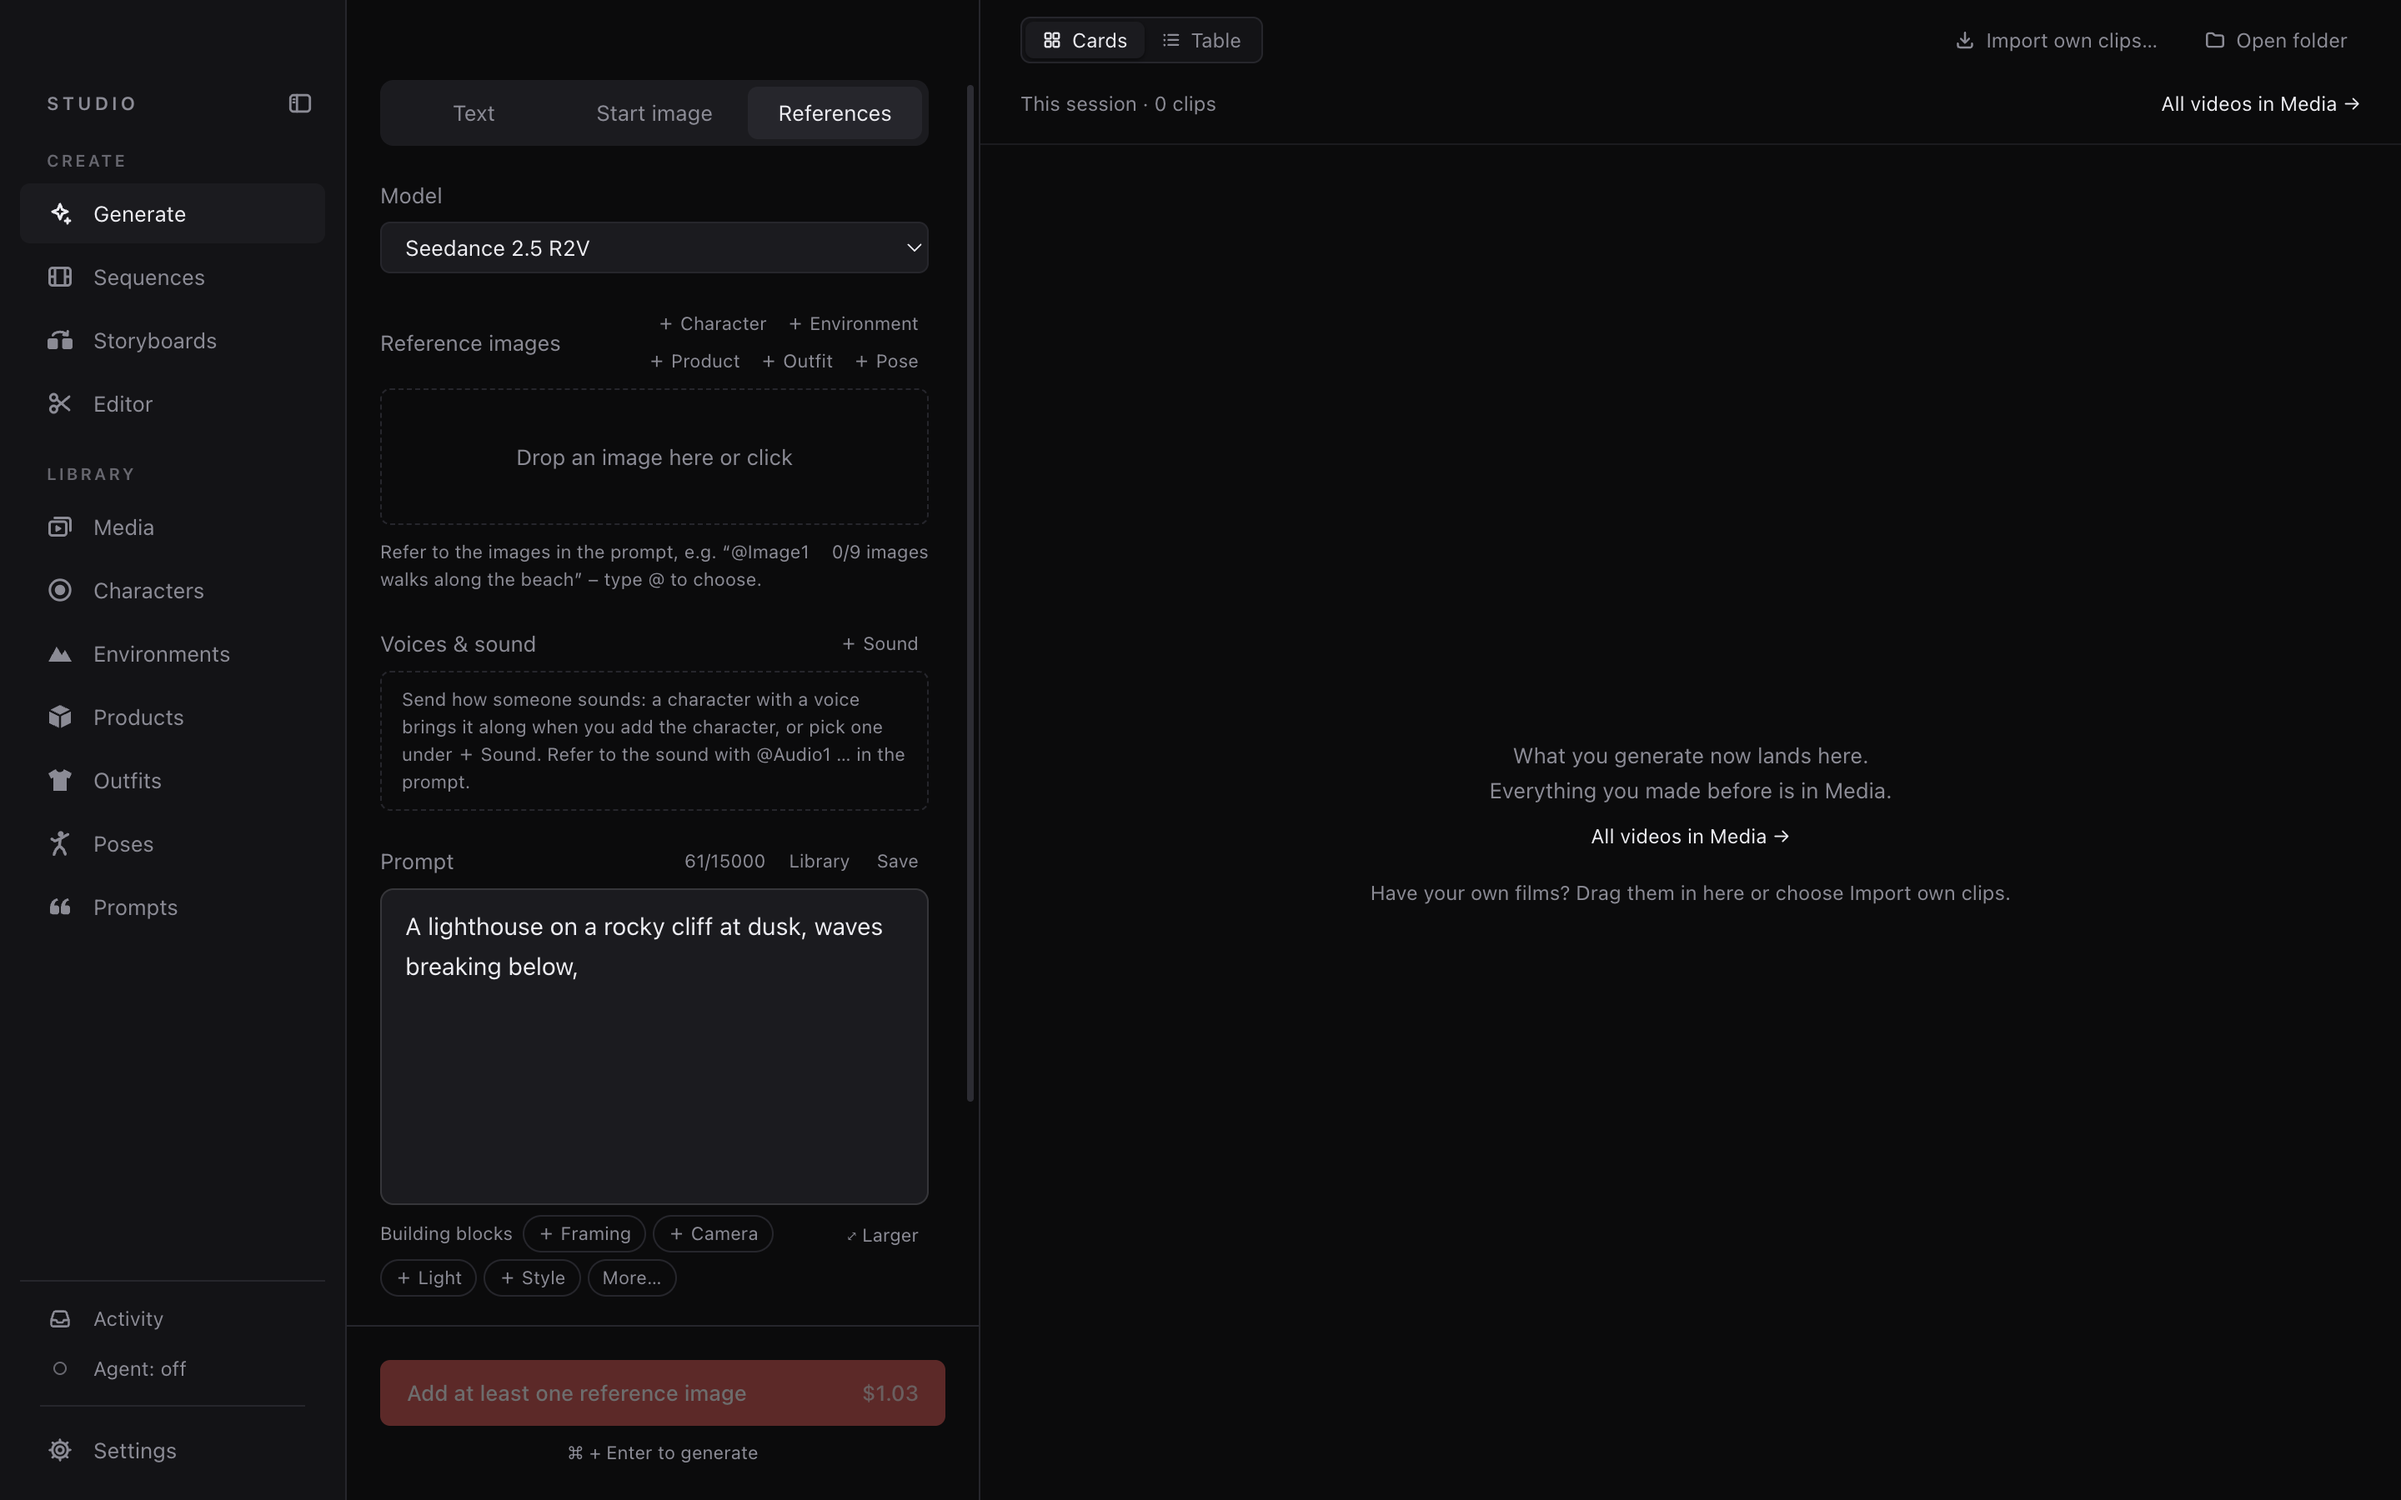
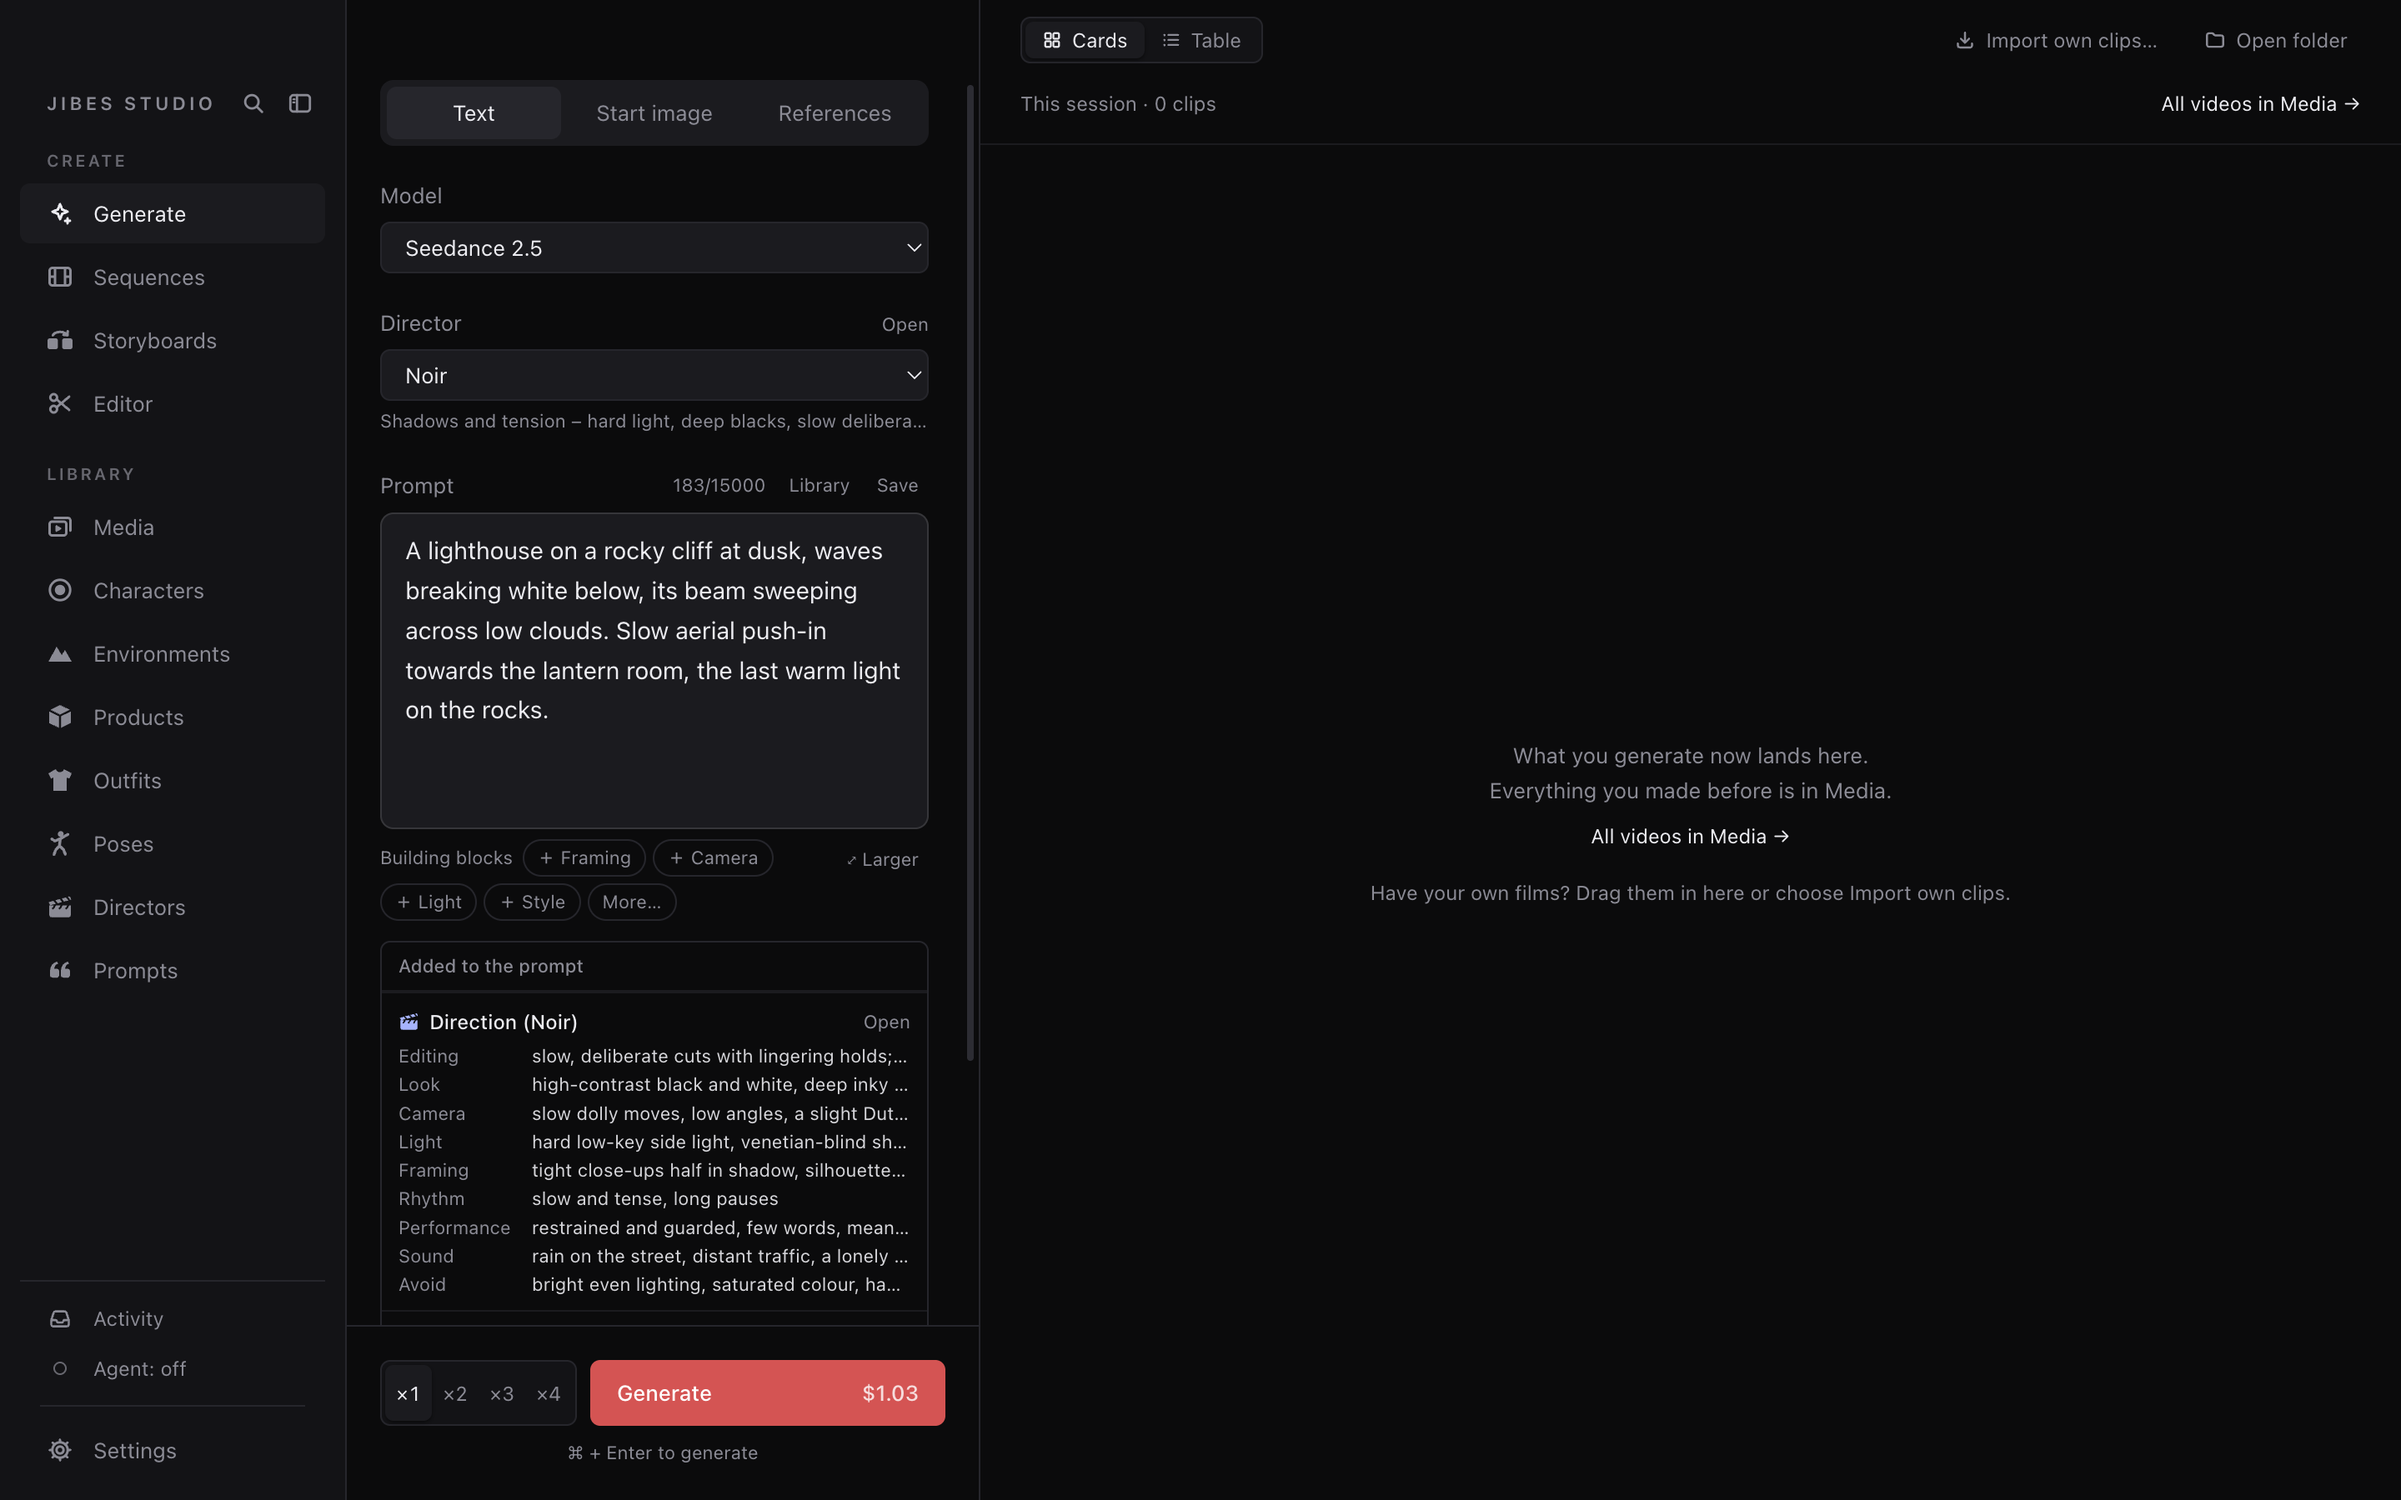
docs: new README screenshots with JIBES Studio and directors
- Taken with npm run screenshots in a throwaway library: the Generate
  form filled in (text-to-video, the ready-made Noir director, its
  Direction), the / menu, a sequence and a storyboard directed by Noir,
  and the Directors view in place of the empty Editor.
- The README lists Directors among the features.

Assisted-by: Claude Code (Claude Opus 5.5)

diff --git a/README.md b/README.md
@@ -40,6 +40,8 @@ You pay Venice per generation; the price is shown before you generate.
   Their descriptions are added to the prompt for you.
 - **Sequences** – clips that continue from each other's last frame, exported as one film.
 - **Storyboards** – one picture per moment; the clips between them are generated.
+- **Directors** – a way of making a film (editing, look, camera, light, sound) that every prompt it directs carries.
+  Start from eight ready-made ones or make your own.
 - **Editor** – cut, clean up the sound, replace a voice, add music, redo a stretch with AI. Every change is a
   new version; the original is never touched.
 - **Agents** – connect your own AI agent over [MCP](https://modelcontextprotocol.io). It can do what you can;
@@ -50,8 +52,8 @@ Everything is stored as plain files in the folder you chose.
 | Sequences | Storyboards |
 | --- | --- |
 | ![Sequences](docs/images/sequences.png) | ![Storyboards](docs/images/storyboards.png) |
-| **Editor** | **Writing help** – type `/` for ready-made phrases |
-| ![Editor](docs/images/editor.png) | ![Building blocks](docs/images/prompt-blocks.png) |
+| **Directors** | **Writing help** – type `/` for ready-made phrases |
+| ![Directors](docs/images/directors.png) | ![Building blocks](docs/images/prompt-blocks.png) |
 
 ## More
 

diff --git a/docs/DEVELOPMENT.md b/docs/DEVELOPMENT.md
@@ -645,9 +645,10 @@ goes all the way, reopening with the same two variables.
 ## Screenshots
 
 `npm run screenshots` (after `npm run build`) starts the built app with `STUDIO_PROFILE_DIR` pointing at a new
-temporary folder, creates an empty library there, adds a little neutral structure (a sequence and a storyboard with
-short notes, no media), opens Generate, the `/` menu, Sequences, Storyboards and the Editor at 1440 × 900 (2× pixels)
-over the DevTools protocol and saves `docs/images/*.png`. It never reads your own settings or library, generates
+temporary folder, creates an empty library there, adds a little made-up structure (a sequence of text-to-video clips
+and a storyboard with short notes, both directed by the ready-made *Noir*; no media), fills in the Generate form as a
+user does, opens Generate, the `/` menu, Sequences, Storyboards and Directors at 1440 × 900 (2× pixels) over the
+DevTools protocol and saves `docs/images/*.png`. It never reads your own settings or library, generates
 nothing and uses no API key; the temporary folder is removed afterwards. Run it again when the UI changes.
 
 ## Database migrations
